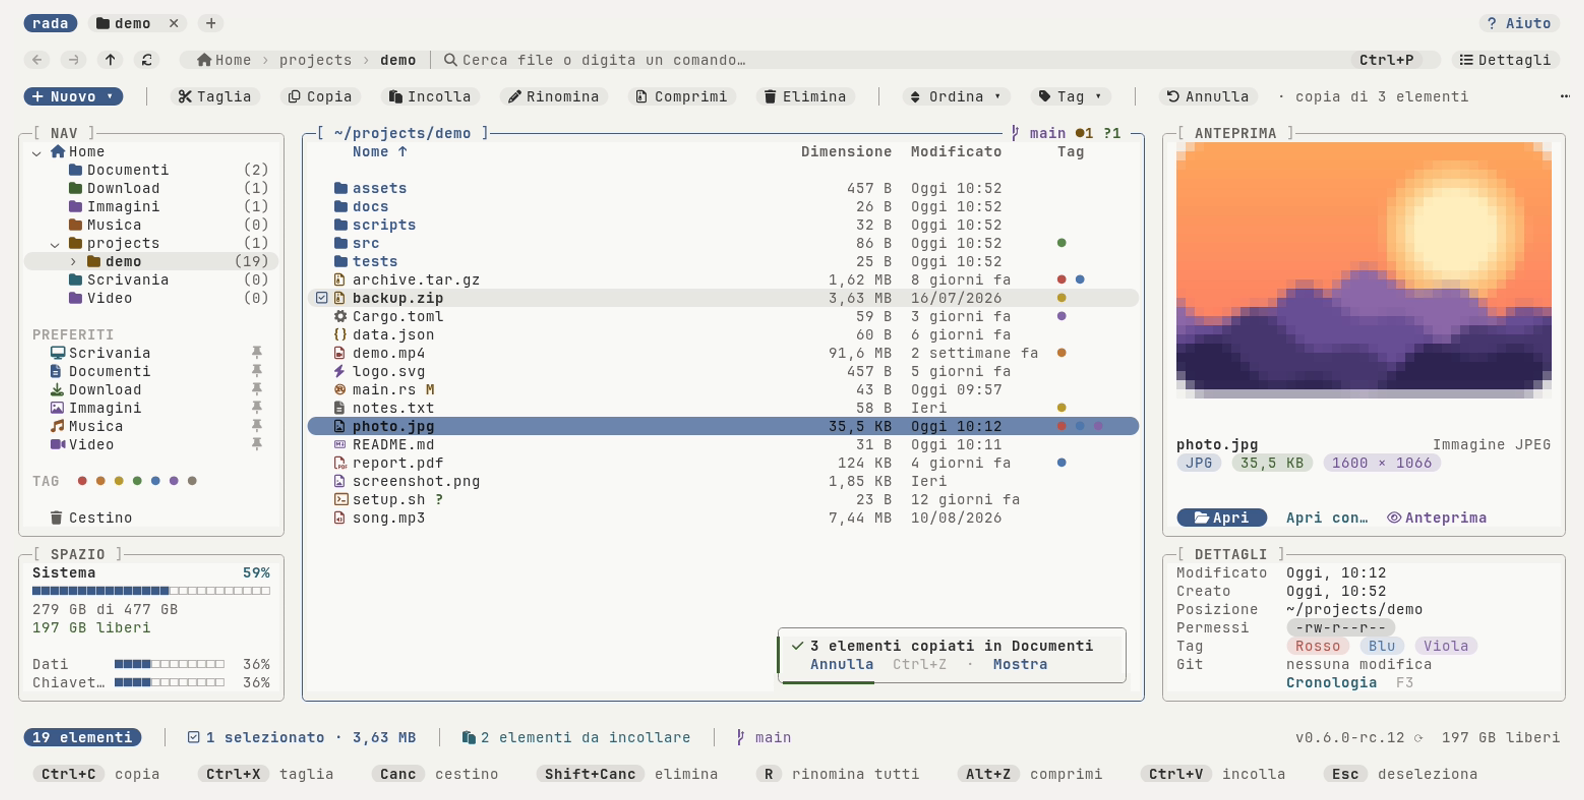
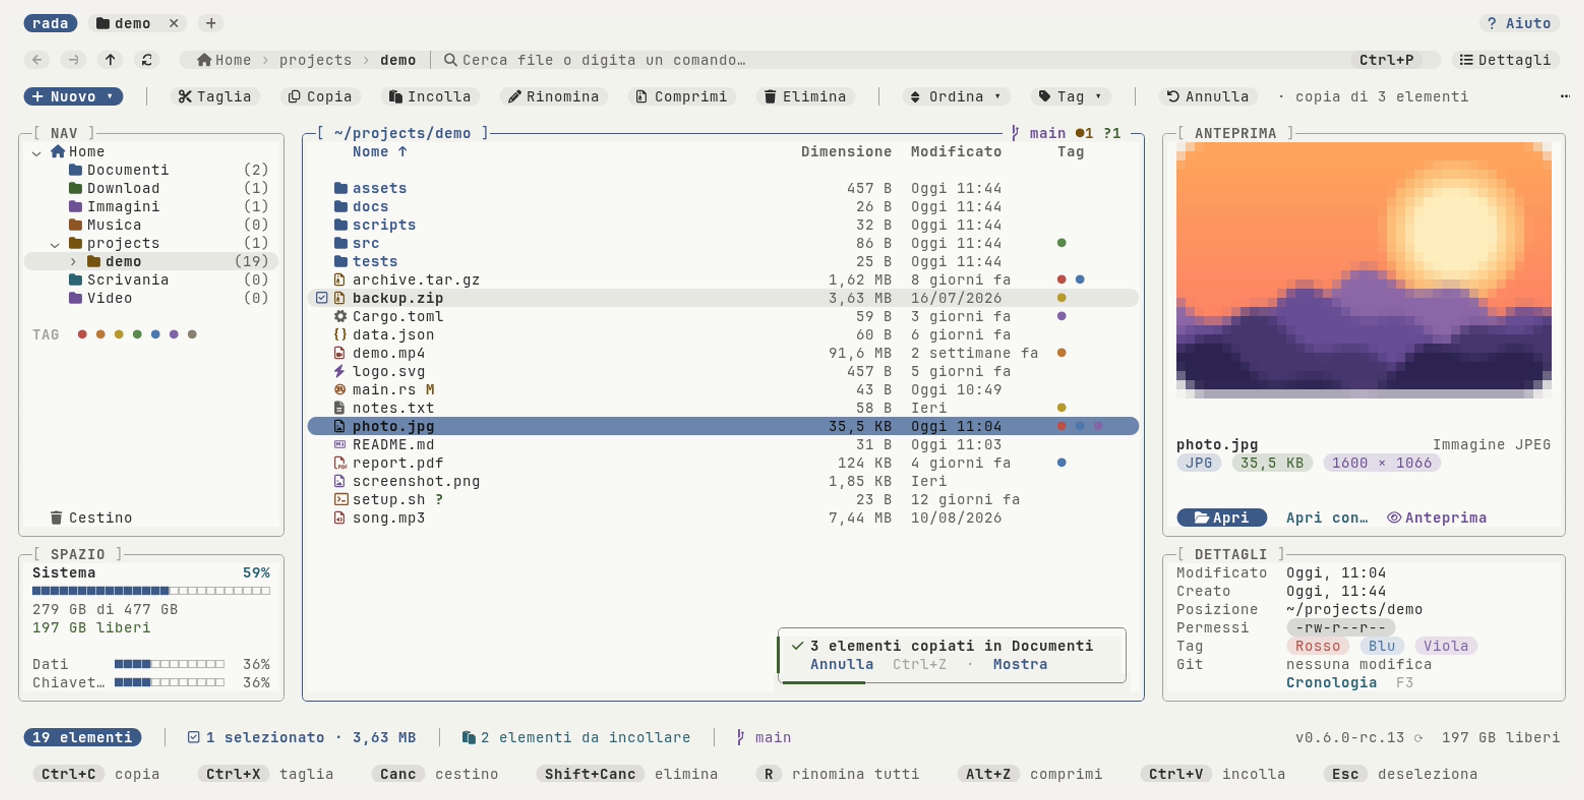
chore: 0.6.0-rc.13
The version, the changelog (Unreleased becomes 0.6.0-rc.13), the Neon colours in the recording terminal, and the two screenshots of the panels view drawn again on the demo home.

diff --git a/CHANGELOG.md b/CHANGELOG.md
@@ -3,9 +3,12 @@
 All notable changes to this project are documented in this file.
 The format follows [Keep a Changelog](https://keepachangelog.com/en/1.1.0/) and the project uses [Semantic Versioning](https://semver.org/).
 
-## [Unreleased]
+## [0.6.0-rc.13] - 2026-10-21
+
+The **panels view** — the screen as rounded boxes — with the **Neon** theme, the state of a git repository, folders from **zoxide**, colours in the preview of source files, and the corrections of what was seen in it: the NAV tree opens its folders, follows the folder you are in and scrolls, the favourites no longer repeat the standard folders, and SPAZIO draws the main disk as a ring. Security updates of two libraries. Still a **pre-release**.
 
 ### Added
+- **The main disk of SPAZIO is a ring** where the terminal draws pictures (kitty, Ghostty, WezTerm… and a theme in true colours): a ring from cyan to violet with the percentage and *usato* in its middle and, beside it, the name, used of total and free. The picture is made at the size of its cells, in four pieces around the hole where the text is, and again only when the percentage changes. Elsewhere the bar stays.
 - **The panels view.** On a window of 140 columns by 36 rows or more rada draws the screen as rounded boxes: **NAV** (a tree of folders from Home with the number of items in each, the favourites, a row of the seven tag colours, the trash) and **SPAZIO** (the main disk with its percentage, used of total and free, and the other volumes with a bar of twelve cells) on the left; the folder in the middle (Name, Size as a number alone, Modified, Tag; the selected row filled with the selection colour and rounded; the card of the last operation inside the box); **ANTEPRIMA** (the preview, name and type, rounded labels for type, size and resolution, a short full **Apri** button) and **DETTAGLI** on the right. The tabs, the navigation row and the buttons are rows of their own with a blank row between them, as are the status bar and the key hints; below 42 rows the blank rows go. `Tab` moves the keyboard between NAV, the folder and ANTEPRIMA, and the border of the box it is in takes the accent colour. The tree is listed by a worker (`rada_core::workers::tree_dirs`), never by the drawing. The box under ANTEPRIMA is chosen in one place, ready for an assistant box in a later version. Documented in `docs/interface.md`.
 - **`layout = "auto"` (the default), `"panels"`, `"classic"` or `"compact"`.** Auto draws the panels from 140×36 and the classic layout below it (a tiled window, the file chooser always), changing by itself as the window is resized. **View ▾** has *Layout: automatic / panels / classic*; the choice is remembered in `ui.json` and replaces the configuration's. `explorer` still means classic.
 - **The state of a git repository in the panels view.** When the folder shown is in a repository, the top edge of its box says the branch (with an icon and how far it is from its upstream) and the number of changed (`●`) and new (`?`) files; an `M` in yellow or a `?` in green follows a file's name, and the status bar and DETTAGLI say the same. It is read with `git status --porcelain=v2 -b -z` on a thread of its own, only when git is installed, with a time limit; with git missing, refusing or slow nothing is shown and no error is reported. git is told to take no locks, to leave the file system monitor of a repository alone and to ask nothing on the terminal. `git = false` never calls it; `git_path` names the program.
@@ -17,9 +20,13 @@ The format follows [Keep a Changelog](https://keepachangelog.com/en/1.1.0/) and 
 - **Colours in the preview of source files.** Comments, strings, numbers, keywords, types, functions and attributes are coloured, for most languages (syntect, with its pure Rust regex engine: nothing to build with a C compiler, so Windows, macOS and musl are not harder; TOML, which it does not know, has a small reader of its own). The colours are taken from the active theme (`text_dim`, `success`, `warn`, `accent` and the file-kind colours): none of them is written by hand. Only the first 64 KB and 1000 lines are coloured, by the preview worker and not by the interface; an unknown language or a binary file looks as before. `syntax_highlight = false` in `config.toml` turns it off. `deny.toml` ignores RUSTSEC-2025-0141 (bincode, which syntect uses to read its own bundled definitions) with the reason.
 
 ### Changed
+- **The colours of Neon are those of its reference screens** (`docs/design/`): cyan `#5fe1e6`, pink `#f472b6`, yellow `#fbbf24`, green `#34d399`, orange `#fb923c`, blue `#60a5fa`, red `#f87171`, the quiet tone `#4b5180` and the track `#262a52`, sampled from the pictures.
+- **`rustls-webpki` 0.103.16 and `webpki-roots` 1.0.10** (RUSTSEC-2026-0381, RUSTSEC-2026-0382).
 - **`rada update` names the version to a copy installed with cargo while the new one is a pre-release.** Cargo does not pick a pre-release by itself, so `cargo install rada --locked` would find nothing: the advice is now `cargo install rada --locked --version <new version>` (in Italian too). With a stable version it stays `cargo install rada --locked`. `docs/install.md` and `docs/updates.md` say the same.
 
 ### Fixed
+- **The NAV tree follows the folder you are in and scrolls.** Wherever the folder changes from (the list, the path, `Ctrl+P`, zoxide, back and forward) the tree opens the branches down to it, highlights it and scrolls so that it is in view; a tree longer than its box scrolls with the wheel and with `↑` `↓` when NAV has the keyboard, and a thin bar at its right edge says there is more. `Enter` and a click on a name show the folder in the middle box with the same history as the classic sidebar; a click on an arrow only opens or closes the branch. Tests cover a tree longer than the box, a deep folder, the wheel and the keys.
+- **PREFERITI no longer repeats the standard folders** (Documents, Downloads, Pictures…): they are in the tree under Home. Only the folders you pinned are listed, and with none the section is not drawn.
 - **The end of a pill or of a row stood on the wrong colour with a theme that leaves the terminal's background alone** (`catppuccin`, `tokyo-night`, `transparent_background`): the round end took the colour the cell had before and blended into the pill. The background behind an end is now always set. A test checks every pill of the panels view.
 - **The program's name keeps its lower case at the start of a notice.** The message that closes an update said "Rada 0.6.0-rc.12 è installato…" (seen on Windows): the notice title puts its first letter in capitals, and it did so to the name too. A text that begins with the word `rada` is now left as it is, in Italian and in English.
 

diff --git a/docs/platforms.md b/docs/platforms.md
@@ -2,7 +2,7 @@
 
 ## Status
 
-Version 0.6.0-rc.12. **Linux is supported.** Windows and macOS are a **pre-release**: the Recycle Bin / Trash, drives and volumes, the standard folders, opening files, and — new in this release — the things people expect of the Finder and Explorer (packages, localized names, ejecting, Quick Look, tags on macOS; localized names and ejecting on Windows) are implemented, and the whole test suite runs on all three systems in CI. The Mac version has had its first real-world try-out; nobody lives in the Windows one yet, so expect rough edges, and the parts of a copy that preserve attributes (ACLs, alternate data streams, resource forks, and the extended attributes other than tags) are not done there: the plan says so before anything is copied.
+Version 0.6.0-rc.13. **Linux is supported.** Windows and macOS are a **pre-release**: the Recycle Bin / Trash, drives and volumes, the standard folders, opening files, and — new in this release — the things people expect of the Finder and Explorer (packages, localized names, ejecting, Quick Look, tags on macOS; localized names and ejecting on Windows) are implemented, and the whole test suite runs on all three systems in CI. The Mac version has had its first real-world try-out; nobody lives in the Windows one yet, so expect rough edges, and the parts of a copy that preserve attributes (ACLs, alternate data streams, resource forks, and the extended attributes other than tags) are not done there: the plan says so before anything is copied.
 
 rada is young and written by one person. The parts that touch your files — planning, copying, the journal, undo — are covered by unit tests, fault-injection tests (full disk, revoked rights, files that change or vanish), tests that kill the process with `SIGKILL` in the middle of an operation, and property tests that generate random trees and check that copy → undo and move → undo give back exactly the starting state, and that compress → extract gives back the same tree. That is a lot more than nothing and much less than years of use. Read [what is guaranteed and what is not](SAFETY.md), keep backups of what matters, and please report anything strange. Review of the operations engine by other people is the help the project needs most ([CONTRIBUTING.md](../CONTRIBUTING.md)).
 

diff --git a/docs/updates.md b/docs/updates.md
@@ -1,10 +1,10 @@
 # Updates
 
-rada looks for a newer version **at most once a day**, in a background worker that never slows the start. It reads GitHub's public list of releases and sends nothing but `User-Agent: rada/<version>`; a network error is silent. A stable version only sees stable releases; a pre-release (`0.6.0-rc.12`) also sees later pre-releases (`channel = "stable"` or `"prerelease"` decides by hand, `check = false` turns the background check off).
+rada looks for a newer version **at most once a day**, in a background worker that never slows the start. It reads GitHub's public list of releases and sends nothing but `User-Agent: rada/<version>`; a network error is silent. A stable version only sees stable releases; a pre-release (`0.6.0-rc.13`) also sees later pre-releases (`channel = "stable"` or `"prerelease"` decides by hand, `check = false` turns the background check off).
 
 When one exists you see it twice: a pill in the accent colour in the tab bar, **↑ Update to X**, and the status bar, **New version X available — press Alt+U to update** (click either). `U` is the history of operations in the vim keys, so the update has `Alt+U`. A window shows the release notes first; `Enter` updates, `Esc` leaves it for later.
 
-The status bar always shows the version that is running, **v0.6.0-rc.12 ⟳**: a click asks the network right away (whatever the day's check said) and answers *rada is up to date* or opens the notes. The **Help ▾** button of the tab bar is a menu with the keys, *Check for updates* and *About rada* (the version, the channel it follows, how it would be updated and where the program is). From the command line:
+The status bar always shows the version that is running, **v0.6.0-rc.13 ⟳**: a click asks the network right away (whatever the day's check said) and answers *rada is up to date* or opens the notes. The **Help ▾** button of the tab bar is a menu with the keys, *Check for updates* and *About rada* (the version, the channel it follows, how it would be updated and where the program is). From the command line:
 
 ```sh
 rada update --check     # only say whether a newer version exists, and what is in it

diff --git a/docs/install.md b/docs/install.md
@@ -9,9 +9,9 @@ Windows and macOS builds are new: please report anything odd in an issue.
 Linux and macOS, for example (take the file name for your system from the releases page; `x86_64-unknown-linux-musl` is the static Linux build):
 
 ```sh
-curl -LO https://github.com/formikadesk/rada-fm/releases/download/v0.6.0-rc.12/rada-0.6.0-rc.12-x86_64-unknown-linux-musl.tar.gz
-tar xzf rada-0.6.0-rc.12-x86_64-unknown-linux-musl.tar.gz
-install -m 755 rada-0.6.0-rc.12-x86_64-unknown-linux-musl/rada ~/.local/bin/rada
+curl -LO https://github.com/formikadesk/rada-fm/releases/download/v0.6.0-rc.13/rada-0.6.0-rc.13-x86_64-unknown-linux-musl.tar.gz
+tar xzf rada-0.6.0-rc.13-x86_64-unknown-linux-musl.tar.gz
+install -m 755 rada-0.6.0-rc.13-x86_64-unknown-linux-musl/rada ~/.local/bin/rada
 ```
 
 Check the signature first when the release has one: [verify.md](verify.md).
@@ -25,7 +25,7 @@ Not published yet. Until it is, use the binary or build from source.
 This builds rada from crates.io (it needs a Rust toolchain of version 1.90 or newer, [rustup](https://rustup.rs)) and puts it in `~/.cargo/bin`:
 
 ```sh
-cargo install rada --locked --version 0.6.0-rc.12
+cargo install rada --locked --version 0.6.0-rc.13
 ```
 
 `--locked` builds with the exact versions of the dependencies rada was tested with. While only pre-releases have been published, cargo does not pick one by itself, so the version has to be named; with 0.6.0 `cargo install rada --locked` will be enough. A copy installed this way is not updated by `rada update` (it does not replace a file cargo looks after): it says to run `cargo install rada --locked` again, which is also how you update it (while the newer version is a pre-release, the command it gives names it: `cargo install rada --locked --version 0.6.0-rc.13`). This is not signed by the author's key like the binaries; cargo checks the download against the checksum of the crates.io index.

diff --git a/README.md b/README.md
@@ -35,7 +35,7 @@ Prebuilt binaries (Linux x86_64 and aarch64, static; macOS Intel and Apple silic
 With Rust 1.90 or newer ([rustup](https://rustup.rs)), from crates.io:
 
 ```sh
-cargo install rada --locked --version 0.6.0-rc.12
+cargo install rada --locked --version 0.6.0-rc.13
 ```
 
 Only pre-releases are published so far, and cargo does not pick a pre-release by itself, so the version has to be named. With 0.6.0 `cargo install rada --locked` will be enough. More in [docs/install.md](docs/install.md).

diff --git a/crates/rada/README.md b/crates/rada/README.md
@@ -16,7 +16,7 @@ You need Rust 1.90 or newer ([rustup](https://rustup.rs)). The program is put in
 `~/.cargo/bin`; update it with the same command. Prebuilt binaries for Linux, macOS and
 Windows are on the [releases page](https://github.com/formikadesk/rada-fm/releases).
 
-While only pre-releases are published, name the version: `cargo install rada --locked --version 0.6.0-rc.12`.
+While only pre-releases are published, name the version: `cargo install rada --locked --version 0.6.0-rc.13`.
 
 ## More
 
